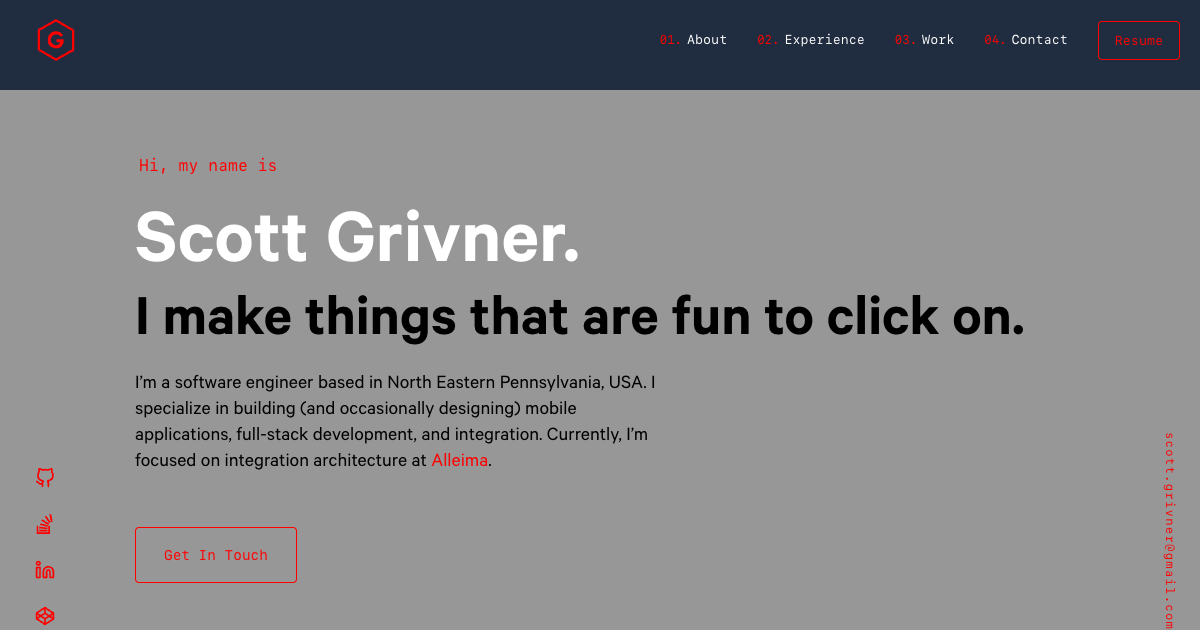
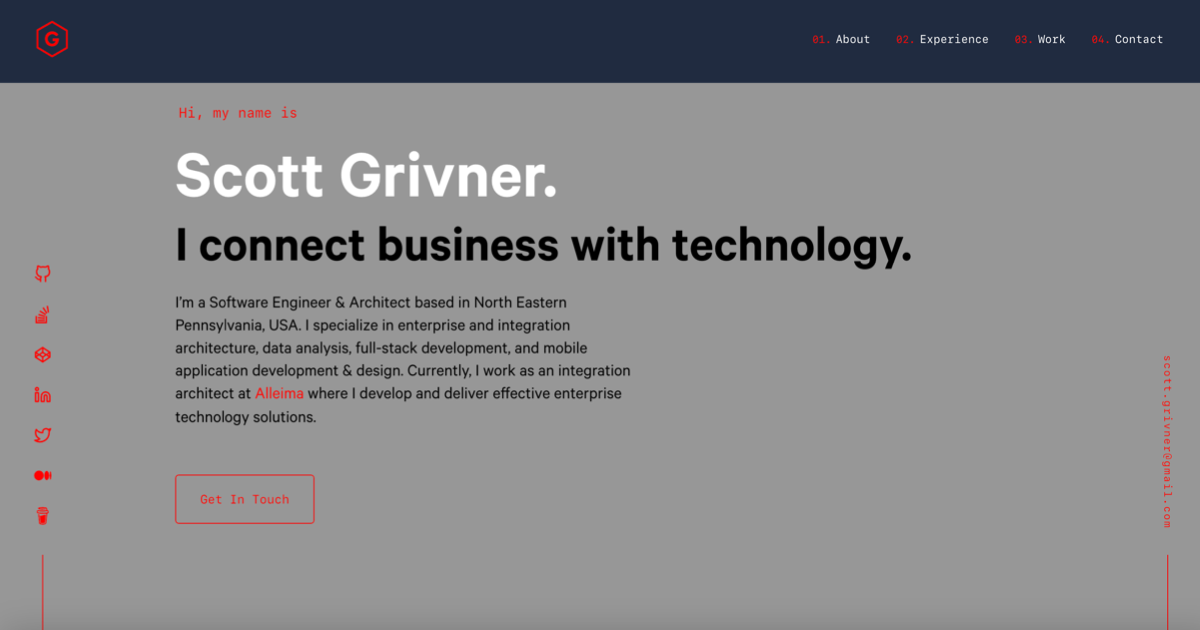
Added Medium and BMAC SVG Files

diff --git a/src/config.js b/src/config.js
@@ -8,15 +8,27 @@ module.exports = {
     },
     {
       name: 'StackOverflow',
-      url: 'https://stackoverflow.com/users/3092847/griv',
+      url: 'https://stackoverflow.com/u/3092847',
+    },
+    {
+      name: 'Codepen',
+      url: 'https://codepen.io/scottgriv',
     },
     {
       name: 'Linkedin',
       url: 'https://www.linkedin.com/in/scottgrivner/',
     },
     {
-      name: 'Codepen',
-      url: 'https://codepen.io/scottgriv',
+      name: 'Twitter',
+      url: 'https://twitter.com/scottgrivner',
+    },
+    {
+      name: 'Medium',
+      url: 'https://medium.com/@scottgrivner',
+    },
+    {
+      name: 'BuyMeACoffee',
+      url: 'https://www.buymeacoffee.com/scottgriv',
     },
     /*
     {

diff --git a/src/components/icons/index.js b/src/components/icons/index.js
@@ -2,6 +2,8 @@ export { default as IconAppStore } from './appstore';
 export { default as IconBookmark } from './bookmark';
 export { default as IconCodepen } from './codepen';
 export { default as IconStackOverflow } from './stackoverflow';
+export { default as IconMedium } from './medium';
+export { default as IconBuyMeACoffee } from './buymeacoffee';
 export { default as IconExternal } from './external';
 export { default as IconFolder } from './folder';
 export { default as IconFork } from './fork';

diff --git a/src/components/icons/icon.js b/src/components/icons/icon.js
@@ -5,6 +5,8 @@ import {
   IconBookmark,
   IconCodepen,
   IconStackOverflow,
+  IconMedium,
+  IconBuyMeACoffee,
   IconExternal,
   IconFolder,
   IconFork,
@@ -28,6 +30,10 @@ const Icon = ({ name }) => {
       return <IconCodepen />;
     case 'StackOverflow':
       return <IconStackOverflow />;
+    case 'Medium':
+      return <IconMedium />;
+    case 'BuyMeACoffee':
+      return <IconBuyMeACoffee />;
     case 'External':
       return <IconExternal />;
     case 'Folder':
